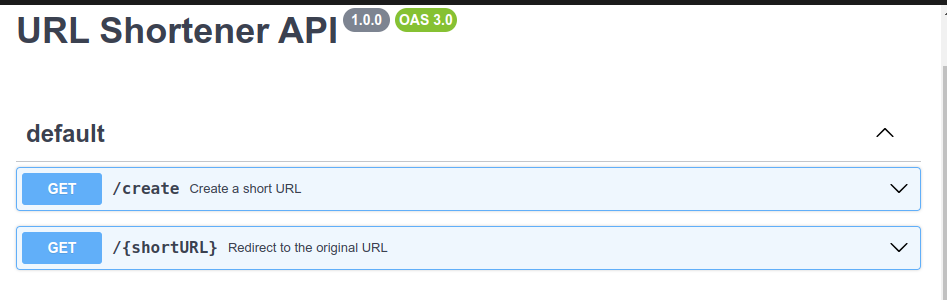
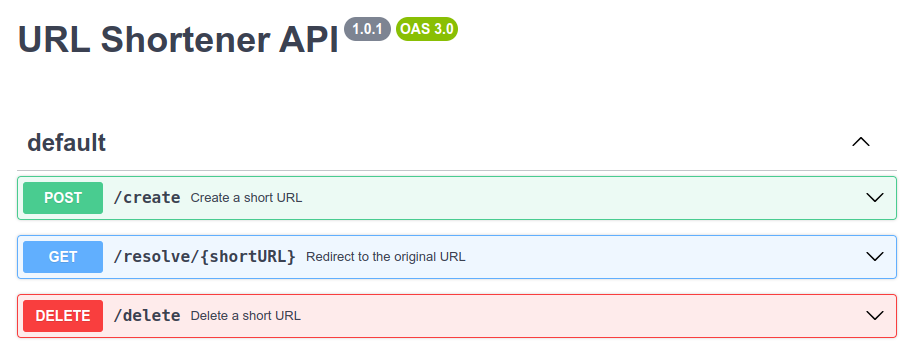
Agrega colección Postman (#10)

Changed region(s): [[0.0, 0.21, 1.0, 1.0], [0.0, 0.0, 1.0, 0.15], [0.9261, 0.36, 0.957, 0.39]]

diff --git a/src/main.go b/src/main.go
@@ -5,6 +5,7 @@ import (
 	"math/rand"
 	"net/http"
 	"os"
+	"strings"
 	"time"
 
 	"github.com/aws/aws-lambda-go/events"
@@ -47,6 +48,32 @@ func createShortURL(request events.APIGatewayProxyRequest) (events.APIGatewayPro
 	if longURL == "" {
 		return events.APIGatewayProxyResponse{StatusCode: http.StatusBadRequest, Body: "Missing URL parameter"}, nil
 	}
+	queryInput := &dynamodb.QueryInput{
+		TableName: aws.String("UrlShortener"),
+		IndexName: aws.String("LongUrlIndex"),
+		KeyConditions: map[string]*dynamodb.Condition{
+			"longUrl": {
+				ComparisonOperator: aws.String("EQ"),
+				AttributeValueList: []*dynamodb.AttributeValue{
+					{
+						S: aws.String(longURL),
+					},
+				},
+			},
+		},
+	}
+	queryOutput, err := db.Query(queryInput)
+	if err != nil {
+		return events.APIGatewayProxyResponse{StatusCode: http.StatusInternalServerError, Body: "Internal Server Error"}, err
+	}
+	if len(queryOutput.Items) > 0 {
+		existingShortURL := *queryOutput.Items[0]["shortUrl"].S
+		baseURL := os.Getenv("BASE_URL")
+		return events.APIGatewayProxyResponse{
+			StatusCode: http.StatusOK,
+			Body:       fmt.Sprintf("Short URL: %s/%s\n", baseURL, existingShortURL),
+		}, nil
+	}
 	shortURL := generateShortURL()
 	item := map[string]*dynamodb.AttributeValue{
 		"shortUrl": {
@@ -60,7 +87,7 @@ func createShortURL(request events.APIGatewayProxyRequest) (events.APIGatewayPro
 		TableName: aws.String("UrlShortener"),
 		Item:      item,
 	}
-	_, err := db.PutItem(input)
+	_, err = db.PutItem(input)
 	if err != nil {
 		return events.APIGatewayProxyResponse{StatusCode: http.StatusInternalServerError, Body: "Internal Server Error - Cant Write"}, err
 	}
@@ -102,11 +129,13 @@ func resolveURL(request events.APIGatewayProxyRequest) (events.APIGatewayProxyRe
 }
 
 func deleteURL(request events.APIGatewayProxyRequest) (events.APIGatewayProxyResponse, error) {
-	shortURL := request.QueryStringParameters["shortURL"]
-	if shortURL == "" {
+	rawShortURL := request.QueryStringParameters["shortURL"]
+	if rawShortURL == "" {
 		return events.APIGatewayProxyResponse{StatusCode: http.StatusBadRequest, Body: "Missing shortURL parameter"}, nil
 	}
 
+	segments := strings.Split(rawShortURL, "/")
+	shortURL := segments[len(segments)-1]
 	input := &dynamodb.DeleteItemInput{
 		TableName: aws.String("UrlShortener"),
 		Key: map[string]*dynamodb.AttributeValue{
@@ -141,7 +170,7 @@ func handler(request events.APIGatewayProxyRequest) (events.APIGatewayProxyRespo
 			return resolveURL(request)
 		}
 	case http.MethodDelete:
-		if request.Resource == "/delete/" {
+		if request.Resource == "/delete" {
 			return deleteURL(request)
 		}
 	default:

diff --git a/doc/GIT y GITHUB.md b/doc/GIT y GITHUB.md
@@ -26,15 +26,15 @@ El archivo `settings.yml` en la raíz del repositorio se utiliza para definir co
 
 Se puede encontrar más detalles sobre las configuraciones disponibles y cómo se aplican en el documento [Configuración de settings.yml](./path-to-your/settings-yml-documentation).
 
-# GitHub Actions
+## GitHub Actions
 
 Se definen dos workflows en GitHub Actions, los cuales serán implementados en fases posteriores del proyecto:
 
-## Validate Workflow
+### Validate Workflow
 
 - **Test de Integración:** Verifica que el código integrado funcione correctamente.
 - **Estilo de Código:** Comprueba que el estilo del código sea el adecuado.
 
-## Deploy to Testing Workflow
+### Deploy to Testing Workflow
 
 - **Serverless Framework:** Ejecuta el serverless framework que despliega tanto la infraestructura como el código en la cuenta de AWS.
